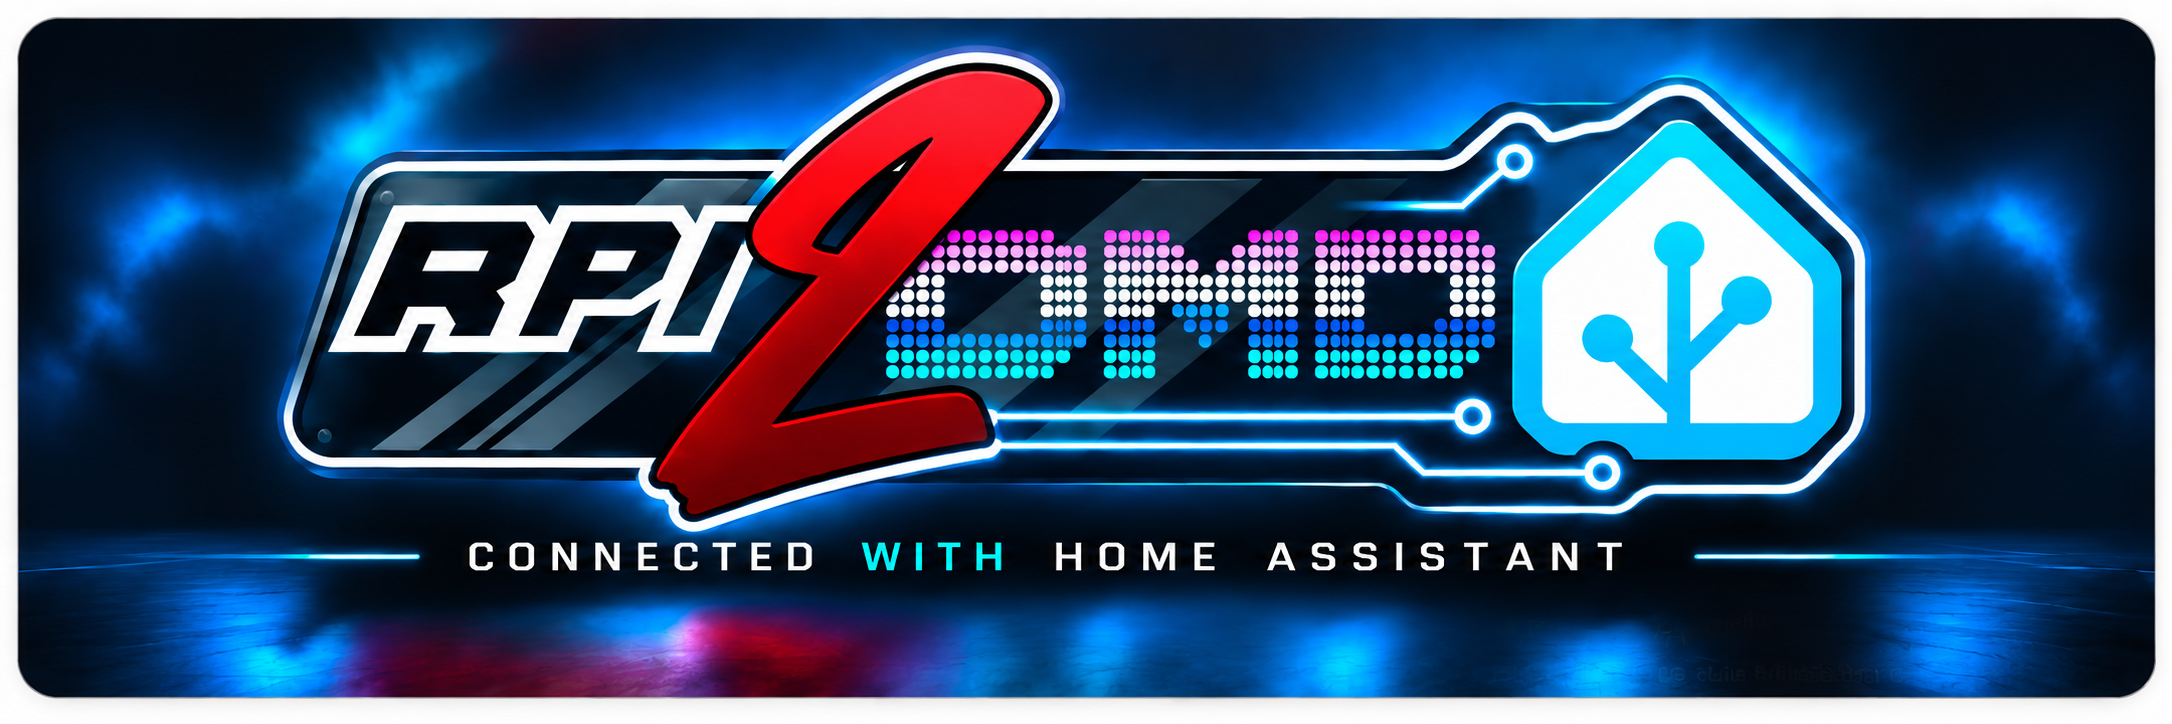
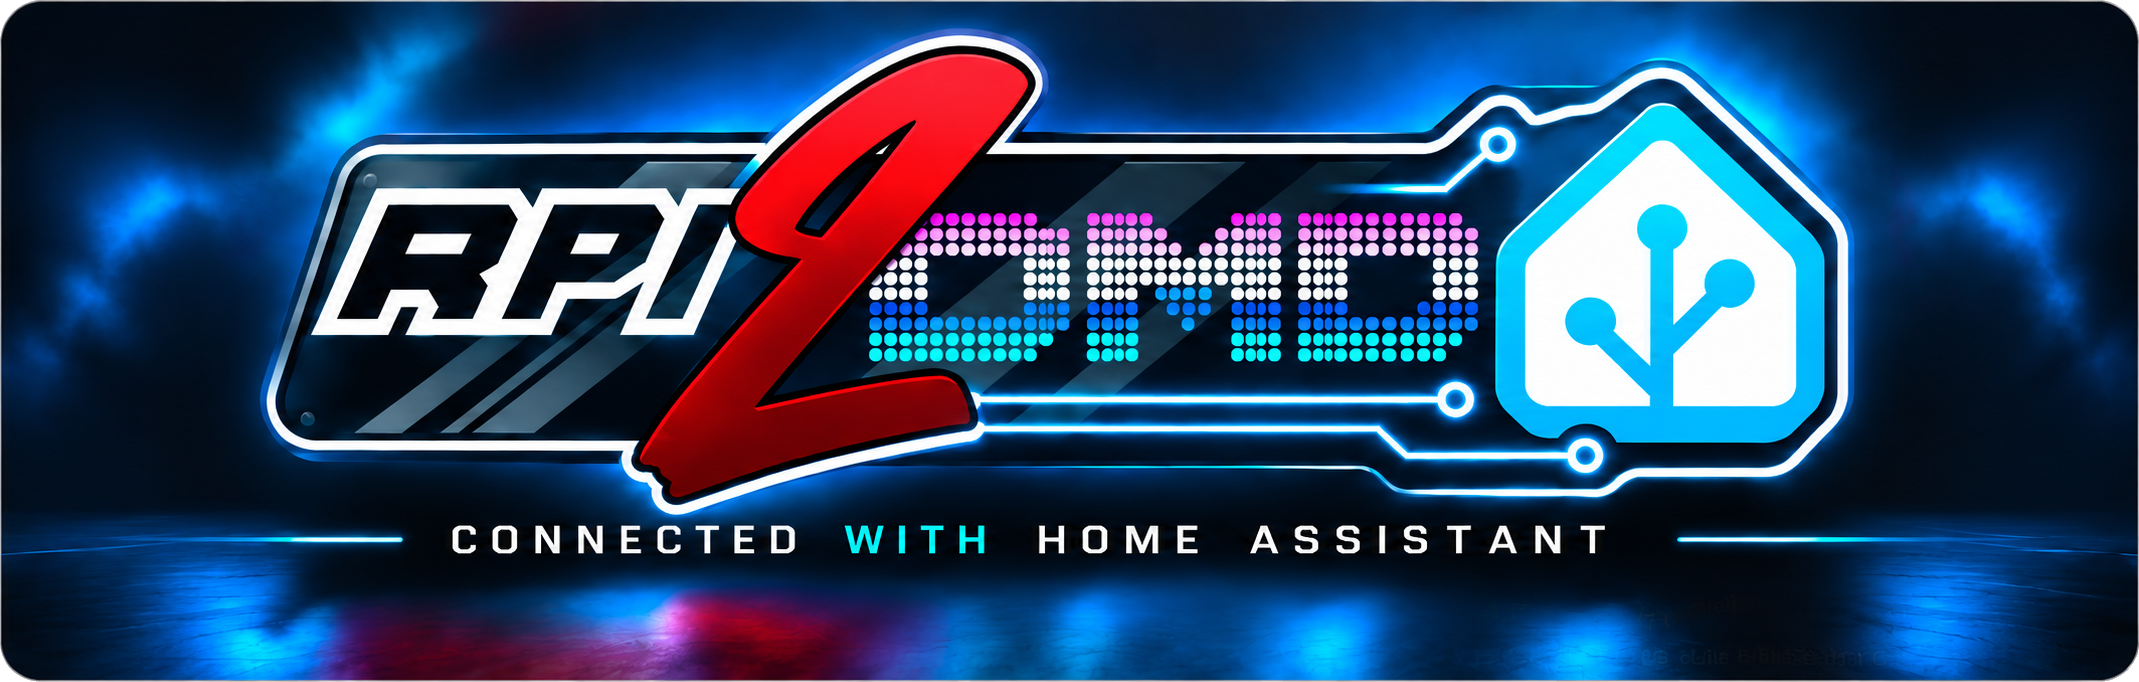
UI: use 4.PNG and lower RPI2DMD hero overlay

diff --git a/custom_components/rpi2dmd/frontend/rpi2dmd-panel.js b/custom_components/rpi2dmd/frontend/rpi2dmd-panel.js
@@ -10,11 +10,11 @@ const RPI_POLISH_CSS = `
   @media(max-width:700px){main{padding:16px 12px 34px}.item,.schedule-row,.category-card{align-items:flex-start;flex-direction:column}.actions{width:100%}nav{padding-top:13px}}
 `;
 const RPI_EXACT_HERO_CSS = `
-  .hero{position:relative;overflow:hidden;width:100%;height:clamp(350px,30vw,380px);border:1px solid rgba(148,220,255,.2);border-radius:24px;background-color:#050a12;background-image:url("/rpi2dmd-assets/rpi2dmd-ha-banner.png?v=2ffd8af5");background-repeat:no-repeat;background-position:center center;background-size:100% 100%;box-shadow:0 20px 54px rgba(2,8,23,.3);isolation:isolate}
+  .hero{position:relative;overflow:hidden;width:100%;height:clamp(350px,30vw,380px);border:1px solid rgba(148,220,255,.2);border-radius:24px;background-color:#050a12;background-image:url("/rpi2dmd-assets/rpi2dmd-ha-banner.png?v=165b4338");background-repeat:no-repeat;background-position:center center;background-size:100% 100%;box-shadow:0 20px 54px rgba(2,8,23,.3);isolation:isolate}
   .hero-content{position:relative;z-index:1;display:block;width:100%;height:100%;padding:0}
-  .hero-overlay{position:absolute;right:clamp(14px,2.8vw,34px);bottom:clamp(14px,2.8vw,30px);z-index:2;display:flex;align-items:center;justify-content:flex-end;gap:12px;max-width:calc(100% - 28px);padding:10px 12px;border:1px solid rgba(148,220,255,.24);border-radius:14px;background:rgba(3,10,20,.76);box-shadow:0 10px 30px rgba(0,0,0,.3);backdrop-filter:blur(9px)}
+  .hero-overlay{position:absolute;right:clamp(10px,2vw,16px);bottom:6px;z-index:2;display:flex;align-items:center;justify-content:flex-end;gap:12px;max-width:calc(100% - 28px);padding:10px 12px;border:1px solid rgba(148,220,255,.24);border-radius:14px;background:rgba(3,10,20,.76);box-shadow:0 10px 30px rgba(0,0,0,.3);backdrop-filter:blur(9px)}
   .hero-overlay .device{display:flex;align-items:center;gap:8px;color:#e0f2fe;font-weight:700;white-space:nowrap}.hero-overlay select{min-width:150px;background:rgba(15,34,54,.92);border-color:rgba(125,211,252,.35);color:#f0f9ff}.hero-overlay .online-pill{padding:7px 10px}
-  @media(max-width:700px){.hero{height:clamp(360px,78vw,430px)}.hero-overlay{left:14px;right:14px;bottom:14px;justify-content:space-between;max-width:none;gap:8px}.hero-overlay .device{min-width:0;flex:1}.hero-overlay select{min-width:0;width:100%;flex:1}.hero-overlay .online-pill{flex-shrink:0}}
+  @media(max-width:700px){.hero{height:clamp(360px,78vw,430px)}.hero-overlay{left:10px;right:10px;bottom:6px;justify-content:space-between;max-width:none;gap:8px}.hero-overlay .device{min-width:0;flex:1}.hero-overlay select{min-width:0;width:100%;flex:1}.hero-overlay .online-pill{flex-shrink:0}}
 `;
 class Rpi2dmdPanel extends HTMLElement {
   constructor() {
@@ -116,7 +116,7 @@ class Rpi2dmdPanel extends HTMLElement {
   _checkHeroBanner() {
     if (this._bannerChecked) return;
     this._bannerChecked = true;
-    fetch("/rpi2dmd-assets/rpi2dmd-ha-banner.png?v=2ffd8af5", { cache: "no-store" })
+    fetch("/rpi2dmd-assets/rpi2dmd-ha-banner.png?v=165b4338", { cache: "no-store" })
       .then((response) => { if (!response.ok) throw new Error(`HTTP ${response.status}`); })
       .catch(() => console.error("RPI2DMD hero banner failed to load"));
   }
